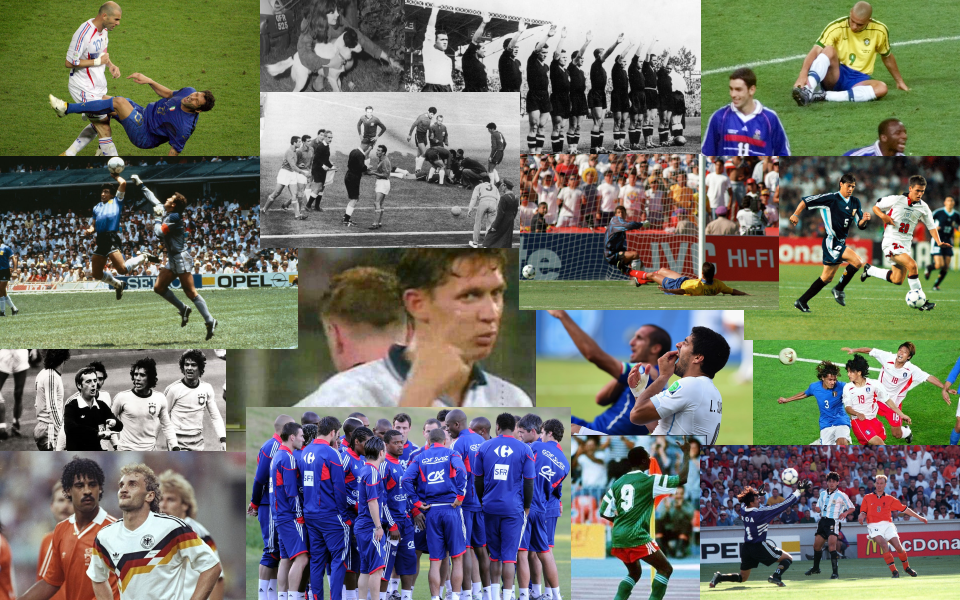
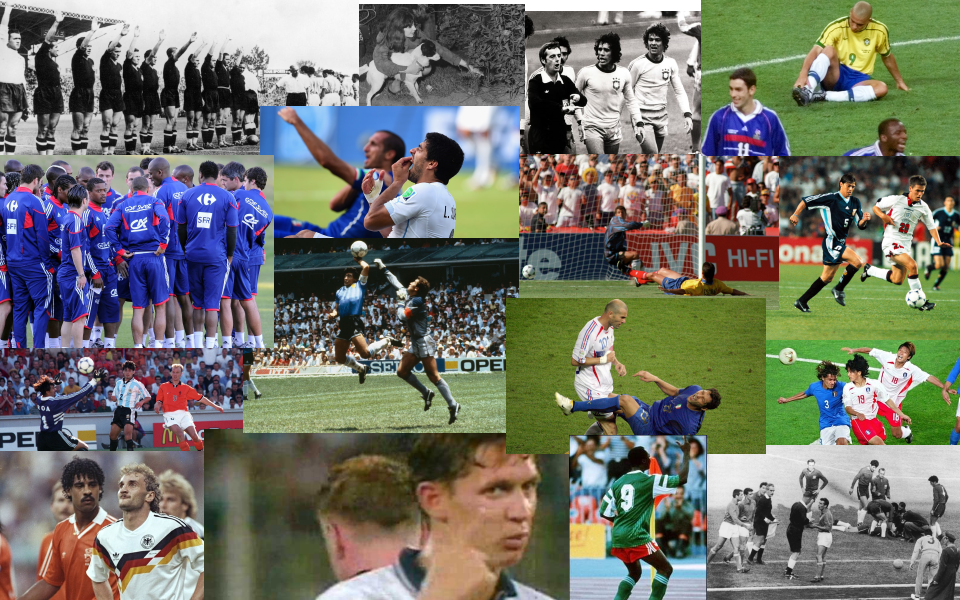
Cover image for diff sizes
Created versions of the cover image for different sized screens

diff --git a/home.css b/home.css
@@ -65,7 +65,7 @@ body {
 
 html,
 body {
-  background: url(assets/img/WC2018Collage.png) no-repeat center center fixed;
+  background: url(assets/img/WC2018Collage_small.png) no-repeat center center fixed;
   -webkit-background-size: cover;
   -moz-background-size: cover;
   -o-background-size: cover;
@@ -75,7 +75,7 @@ body {
 @media (min-width: 400px) {
   html,
   body {
-    background: url(assets/img/WC2018Collage.png) no-repeat center center fixed;
+    background: url(assets/img/WC2018Collage_med.png) no-repeat center center fixed;
     -webkit-background-size: cover;
     -moz-background-size: cover;
     -o-background-size: cover;
